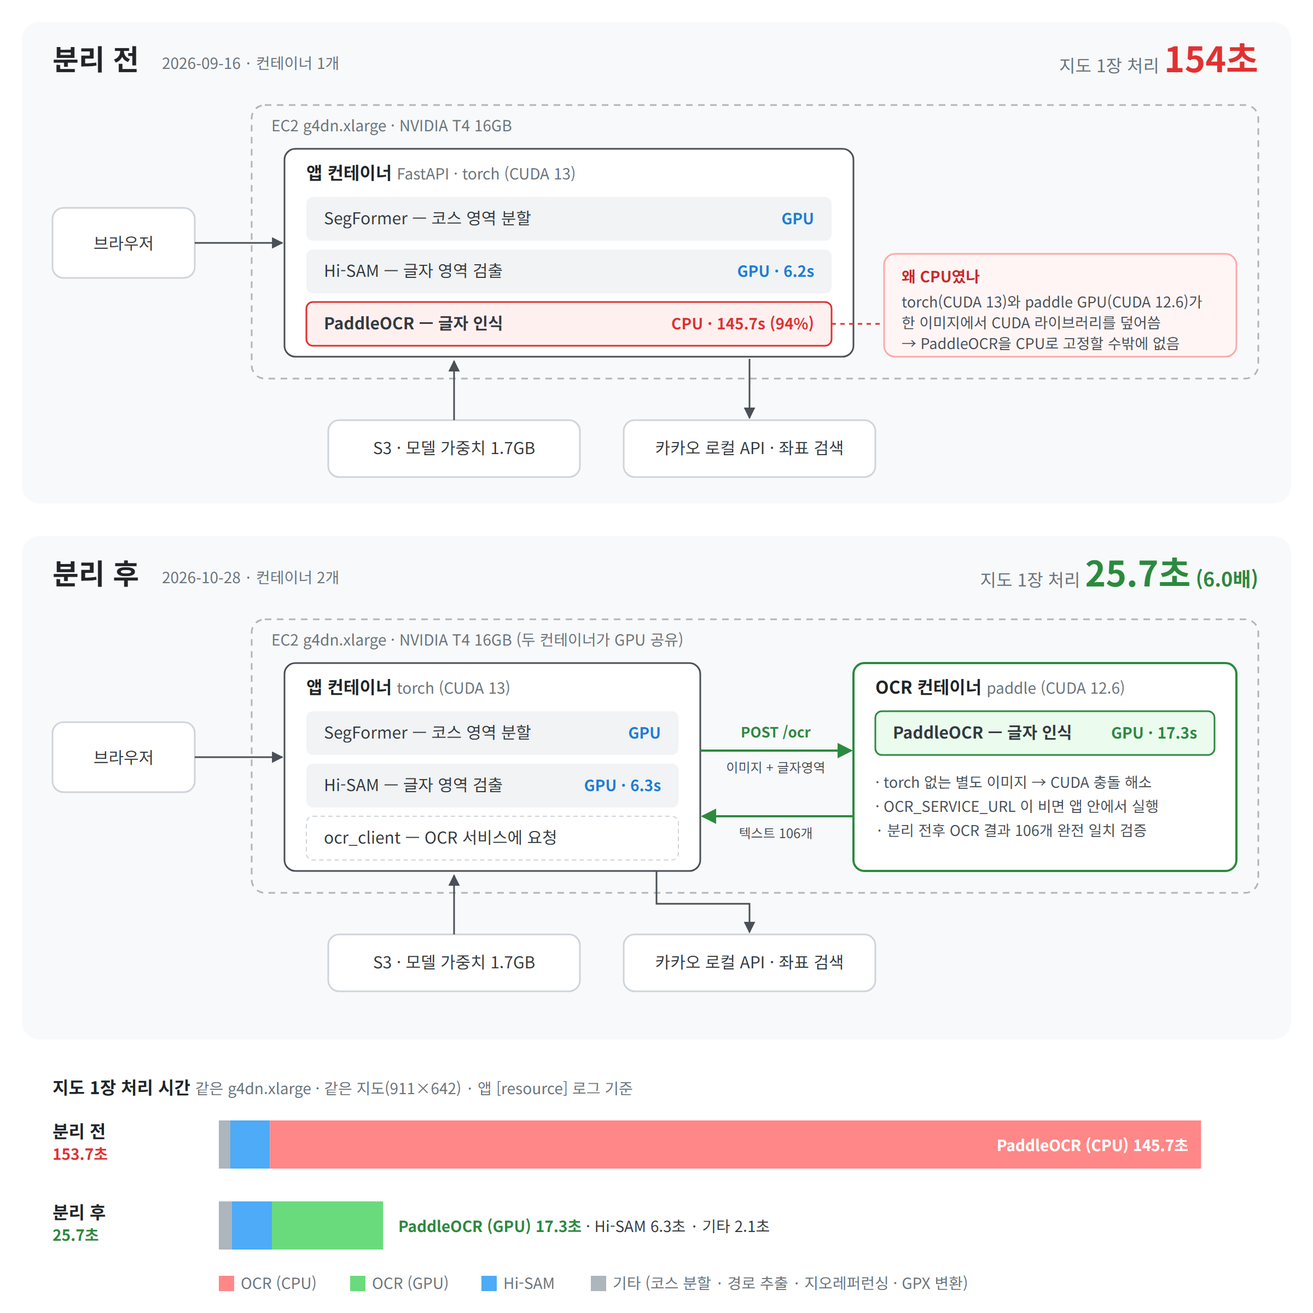
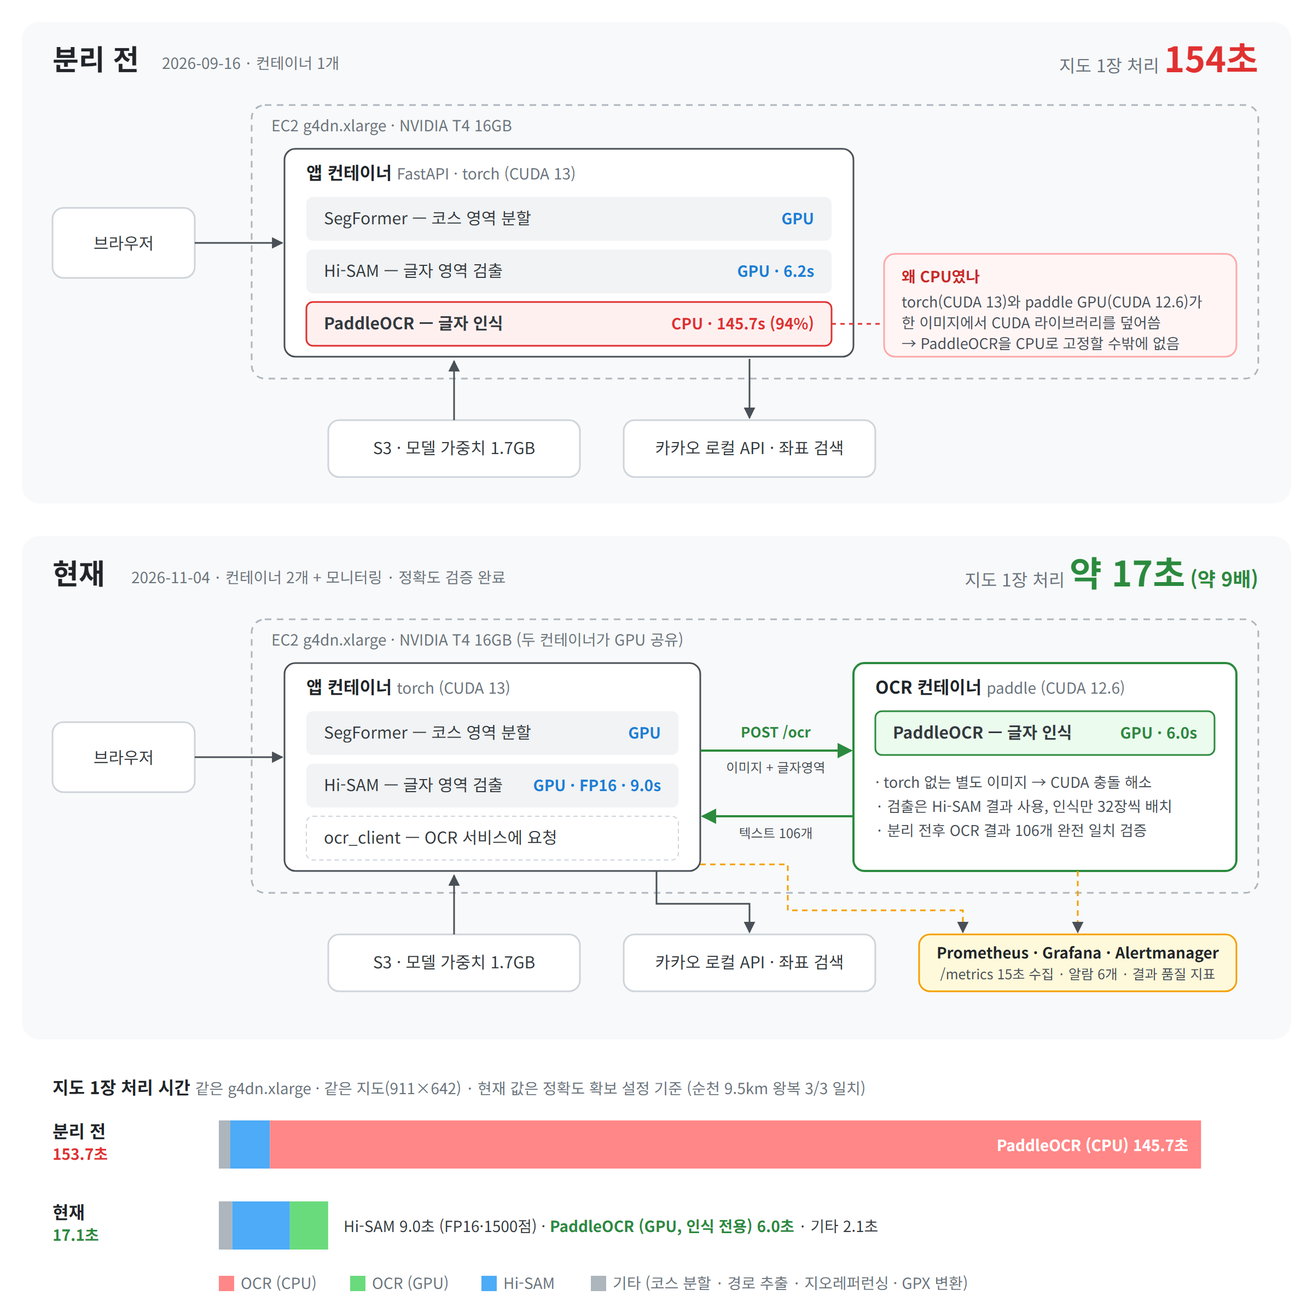
docs: README·아키텍처 그림을 정확도 확보 기준 수치(약 17초)로 갱신, 품질 지표 명칭 정리

diff --git a/bench/alert_test.py b/bench/alert_test.py
@@ -4,7 +4,7 @@
 
 시나리오
   1. OCR 컨테이너 정지 → ServiceDown(job=ocr) firing 까지 시간 → 재시작 → 해제까지 시간
-  2. 품질 기준 밖 결과 주입 → /api/run_georeference 는 200 인데 SilentGeorefFailure 가 firing 되는지
+  2. 품질 기준 밖 결과 주입 → /api/run_georeference 는 200 인데 GeorefQualityLow 가 firing 되는지
      (입력: Hi-SAM 없이 만든 순천 OCR 결과 — decision-log 28번에서 앵커 6개·오차 19px 로 무너졌던 것)
 """
 import json
@@ -57,7 +57,7 @@ compose("start", "ocr")
 t_resolved = wait_for(lambda: alert_state("ServiceDown", job="ocr") == "inactive", 300)
 print(f"    재시작 후 해제까지 {fmt(t_resolved)} (OCR 모델 로드 시간 포함)")
 
-print("[2] 품질 기준 밖 결과 주입 → SilentGeorefFailure")
+print("[2] 품질 기준 밖 결과 주입 → GeorefQualityLow")
 ocr = (ROOT / "bench/e2e/paddle_only/suncheon_ocr.json").read_text(encoding="utf-8")
 with open(ROOT / "bench/e2e/paddle_only/suncheon.png", "rb") as f:
     r = requests.post(f"{APP}/api/run_georeference", files={"file": ("image.png", f, "image/png")},
@@ -65,7 +65,7 @@ with open(ROOT / "bench/e2e/paddle_only/suncheon.png", "rb") as f:
 body = r.json()
 print(f"    API 응답: HTTP {r.status_code}, status={body.get('status')}, 앵커 {body.get('num_anchors')}개, "
       f"평균 오차 {body.get('mean_reprojection_error_px')}px")
-t_silent = wait_for(lambda: alert_state("SilentGeorefFailure") == "firing", 120)
+t_silent = wait_for(lambda: alert_state("GeorefQualityLow") == "firing", 120)
 reasons = sorted({a["labels"].get("reason") for a in requests.get(f"{PROM}/api/v1/alerts", timeout=5).json()["data"]["alerts"]
-                  if a["labels"].get("alertname") == "SilentGeorefFailure"})
-print(f"    SilentGeorefFailure firing 까지 {fmt(t_silent)}, 원인 {reasons}")
+                  if a["labels"].get("alertname") == "GeorefQualityLow"})
+print(f"    GeorefQualityLow firing 까지 {fmt(t_silent)}, 원인 {reasons}")

diff --git a/monitoring/grafana/build_dashboard.py b/monitoring/grafana/build_dashboard.py
@@ -44,7 +44,7 @@ panels = [
           [target('up{job="app"}', "앱"), target('up{job="ocr"}', "OCR")],
           desc="Prometheus 가 /metrics 를 읽지 못하면 0 (다운)",
           thresholds=[{"color": BAD, "value": None}, {"color": GOOD, "value": 1}]),
-    panel(2, "조용한 실패 (성공 응답이지만 품질 기준 밖)", "stat", 6, 0, 6, 4,
+    panel(2, "품질 기준 미달 결과", "stat", 6, 0, 6, 4,
           [target(f'sum(increase(marathon_georef_suspicious_total{W})) or vector(0)', "건수")],
           desc="앵커 8개 미만, 재투영 오차 기준 초과, GPX 경로 100km 초과 (decision-log 22·25번 사례 기준)",
           thresholds=[{"color": GOOD, "value": None}, {"color": BAD, "value": 1}], decimals=0),
@@ -78,7 +78,7 @@ panels = [
           [target(f'sum(increase(marathon_gpx_route_km_sum{W})) / sum(increase(marathon_gpx_route_km_count{W}))', "경로")],
           unit="lengthkm", desc="풀코스도 약 42km. 100km 를 넘으면 변환식 붕괴 의심",
           thresholds=[{"color": GOOD, "value": None}, {"color": WARN, "value": 60}, {"color": BAD, "value": 100}], decimals=2),
-    panel(10, "조용한 실패 원인별", "timeseries", 18, 12, 6, 5,
+    panel(10, "품질 기준 미달 원인별", "timeseries", 18, 12, 6, 5,
           [target('sum by (reason) (increase(marathon_georef_suspicious_total[15m]))', "{{reason}}")]),
 
     # ── 4행: 자원·용량 ──────────────────────────────────────────────────────────

diff --git a/src/metrics.py b/src/metrics.py
@@ -25,7 +25,7 @@ STAGE_FAILURES = Counter(
     "marathon_stage_failures_total", "단계별 실패 수", ["stage"],
 )
 
-# ── 지리좌표 결과 품질: "응답은 성공인데 결과가 틀린" 조용한 실패를 잡기 위한 지표 ────────
+# ── 지리좌표 결과 품질: 변환 행렬이 기준 미달인 결과를 세는 지표 ───────────────────────
 GEOREF_ANCHORS = Histogram(
     "marathon_georef_anchors", "최종 앵커 수",
     buckets=(4, 6, 8, 10, 15, 20, 30, 50),
@@ -35,14 +35,14 @@ GEOREF_REPROJ_ERROR_PX = Histogram(
     buckets=(1, 2, 3, 5, 7, 10, 20, 50),
 )
 GEOREF_SUSPICIOUS = Counter(
-    "marathon_georef_suspicious_total", "성공으로 응답했지만 품질 기준을 벗어난 결과 수", ["reason"],
+    "marathon_georef_suspicious_total", "품질 기준 미달 결과 수", ["reason"],
 )
 GPX_ROUTE_KM = Histogram(
     "marathon_gpx_route_km", "지리좌표로 변환한 GPX 경로 길이(km)",
     buckets=(1, 3, 5, 10, 21, 42, 60, 100, 1000),
 )
 
-# 조용한 실패 판정 기준 (decision-log 22·25번 사례: 앵커 6개·평균 6.5px 인데 다른 도시, 경로 수천 km)
+# 품질 기준 미달 판정 기준 (decision-log 22·25번 사례: 앵커 6개·평균 6.5px 인데 다른 도시, 경로 수천 km)
 MIN_HEALTHY_ANCHORS = 8
 MAX_HEALTHY_ROUTE_KM = 100
 

diff --git a/app.py b/app.py
@@ -899,7 +899,7 @@ def run_georeference_endpoint(
         errors   = tf.reprojection_errors(anchors_final)
         mean_err = sum(errors) / len(errors)
 
-        # 결과 품질 지표 — 응답은 그대로 두고, 기준을 벗어난 "성공"을 따로 센다 (조용한 실패 감시)
+        # 결과 품질 지표 — 기준 미달 결과를 원인별로 센다 (응답 자체의 실패 처리는 아직 없음)
         M.GEOREF_ANCHORS.observe(len(anchors_final))
         M.GEOREF_REPROJ_ERROR_PX.observe(mean_err)
         if len(anchors_final) < M.MIN_HEALTHY_ANCHORS:

diff --git a/README.md b/README.md
@@ -6,10 +6,11 @@
 | 구분 | 범위 | 기간 |
 |------|------|------|
 | 캡스톤 팀 프로젝트 | 경로 추출 모델, 후처리·그래프 단순화, 지리좌표 변환 파이프라인, 웹 UI | ~ 2026-05 (이 레포의 커밋 기록 기준 2026-05-12 ~ 05-20) |
-| **개인 작업 (이 레포)** | 컨테이너화, 성능 병목 진단, OCR 서비스 분리·GPU 전환, Terraform 인프라 | 2026-09 ~ |
+| **개인 작업 (이 레포)** | 컨테이너화, 성능 병목 진단, OCR 서비스 분리·GPU 전환, 정확도 검증, Terraform 인프라, 모니터링·알람 | 2026-09 ~ |
 
 - 원본 팀 레포: [jwonni/Capston-A-man-of-Gyeongsang-do](https://github.com/jwonni/Capston-A-man-of-Gyeongsang-do) — 팀 커밋 기록은 이 레포에 그대로 보존되어 있습니다
-- 팀 프로젝트에서 본인 담당: _(작성 예정)_
+- 배경: 러닝 의류·커뮤니티 기업과 함께한 AX 산학 캡스톤. 담당자가 매번 20~30분씩 손으로 만들던 마라톤 코스 GPX를 지도 이미지로 자동 생성하는 것이 목표였습니다
+- 팀 프로젝트에서 본인 담당: OCR 모델 선정, 인식 텍스트 정제, 카카오 API로 지명 좌표 확보, 신뢰할 수 있는 좌표만 골라 픽셀↔GPS 변환 행렬 계산 (지리좌표 변환 파이프라인)
 
 ## 핵심 성과
 
@@ -17,13 +18,18 @@
 
 | 지표 | 개선 전 | 개선 후 | 무엇을 바꿨나 |
 |------|---------|---------|---------------|
-| 지도 1장 전체 처리 시간 (EC2 g4dn.xlarge) | 약 154초 | **약 25.7초 (6.0배)** | PaddleOCR GPU 전환 + OCR 서비스 분리 |
-| └ OCR 구간 | 약 145초 (CPU, 전체의 94%) | 17.3초 (GPU) | 〃 |
+| 지도 1장 전체 처리 시간 (EC2 g4dn.xlarge, T4) | 약 154초 | **약 15~17초 (약 9배)** | OCR 서비스 분리·GPU 전환, Hi-SAM FP16·점 수 조정, OCR 인식 전용 배치 |
+| 결과 정확도 (송도 지도, 정답 위치와의 거리) | 출발 4.8km · 도착 5.6km | **316m · 210m** | 앵커 영역 필터 수정, 기록 없이 낮춰져 있던 Hi-SAM 설정 복원 |
+| Hi-SAM 글자 검출 실패율 | 57% (7회 중 4회) | **이후 측정에서 실패 없음** | 〃 |
+| GPU 메모리 최대 (앱) | 9.5GB | **5.6GB** | Hi-SAM FP16 |
+| 처리 중 `/metrics`·`/api/health` 응답 | 10초 넘게 응답 없음 | **76/76 성공, 최대 0.1초** | 모니터링으로 이벤트 루프 블로킹 발견 → 스레드풀 실행 |
 | 의존성 수정 후 이미지 재빌드 | 1,430~2,500초 | **248초** | torch 레이어 분리 + pip 캐시 마운트 |
 | Docker 빌드 컨텍스트 | 1.8GB | **1.9MB** | 모델 가중치를 이미지에서 분리 |
 | GPU 실험 환경 구성 | 콘솔 수작업 (AMI·디스크·IAM 실수 반복) | **`terraform apply` 1회** | Terraform 코드화 + S3 원격 state·락 |
 
 - 같은 인스턴스 타입·같은 벤치마크 지도·같은 측정 로그(`[resource]`)로 비교했습니다
+- 처리 시간은 **정확도가 확보된 설정 기준**입니다. 중간에 기록했던 25.7초는 Hi-SAM 설정이 낮춰져 결과가 수 km씩 틀리던 상태의 수치라 대체했습니다 (decision-log 18·24~27번)
+- 정확도는 응답의 "성공" 여부가 아니라 **정답 위치와의 거리(m)**로 평가했습니다 (`bench/e2e_eval.py`)
 - OCR 분리 전후 결과가 같은지 Hi-SAM 출력을 고정해 검증했습니다 (텍스트 106개, 글자·좌표·신뢰도 완전 일치)
 - 모든 결정의 근거와 측정 조건은 [docs/decision-log.md](docs/decision-log.md)에 있습니다
 
@@ -41,19 +47,24 @@
 7. **OCR 서비스 분리** — PaddleOCR을 별도 컨테이너(`ocr_service.py`)로 분리해 GPU로 실행. `OCR_SERVICE_URL`이 없으면 기존처럼 앱 안에서 실행
 8. **요청별 자원 측정** — 모든 API 요청의 처리 시간·RAM·VRAM·CPU를 `[resource]` 로그로 기록
 9. **인프라 코드화** — GPU EC2·보안 그룹·IAM 역할을 Terraform으로 생성/삭제, state는 S3에 보관
+10. **모니터링·알람** — Prometheus 지표(처리 시간, 실패, GPU 메모리, 결과 품질), Grafana 대시보드, Alertmanager 알람
 
 ## 아키텍처
 
 ```
 브라우저 ──▶ 앱 컨테이너 (FastAPI, :8010)                     OCR 컨테이너 (FastAPI, :8020)
             torch (CUDA 13)                                  paddle (CUDA 12.6)
-            ├─ SegFormer-UNet  ── GPU                         └─ PaddleOCR ── GPU
-            ├─ Hi-SAM          ── GPU
+            ├─ SegFormer-UNet  ── GPU                         └─ PaddleOCR 인식 ── GPU
+            ├─ Hi-SAM          ── GPU (FP16)
             └─ ocr_client ──── POST /ocr (이미지 + 글자 영역) ──▶
                           ◀──── 인식 텍스트 + 좌표 ─────────────
                 │
                 ├─▶ 카카오 Local API (좌표 검색)
                 └─▶ S3 (모델 가중치 1.7GB, 실행 시 다운로드)
+
+   앱 /metrics ─┐
+  OCR /metrics ─┴──▶ Prometheus (15초 수집, 알람 규칙 6개) ──▶ Alertmanager
+                              └──▶ Grafana (대시보드 12패널)
 ```
 
 **왜 컨테이너를 나눴나:** torch(CUDA 13)와 paddlepaddle-gpu(CUDA 12.6)를 한 이미지에 설치하면 각자의 CUDA 라이브러리가 서로를 덮어써 torch가 깨집니다. 그래서 PaddleOCR은 CPU로 고정할 수밖에 없었고, 이것이 전체 처리 시간의 94%를 차지하는 병목이었습니다. OCR을 torch 없는 별도 이미지로 분리해 GPU를 쓸 수 있게 했습니다. (decision-log 15~18번)
@@ -69,17 +80,25 @@
 ├── Dockerfile                          # [개인] 앱 이미지 (python:3.12-slim + torch)
 ├── Dockerfile.ocr                      # [개인] OCR 이미지 (paddle GPU/CPU 빌드 인자)
 ├── docker-compose.yml                  # [개인] 로컬 검증용: 앱 + OCR 두 컨테이너 (CPU)
+├── docker-compose.dev.yml              # [개인] 현재 코드를 컨테이너에 연결 (재빌드 없이 재시작만으로 반영)
+├── docker-compose.monitoring.yml       # [개인] Prometheus + Alertmanager + Grafana
 ├── .dockerignore                       # [개인] 가중치·.git 제외 (빌드 컨텍스트 1.8GB → 1.9MB)
 ├── .env                                # 환경변수 (KAKAO_API_KEY 등, git 제외)
 ├── .env.example                        # 환경변수 예시
 ├── Hi-SAM/                             # Hi-SAM 텍스트 감지 (ymy-k/Hi-SAM, Apache-2.0, 일부 수정 포함)
 │   └── pretrained_checkpoint/          # 체크포인트 (별도 다운로드, git 제외)
-├── bench/                              # [개인] 성능·동일성 측정 도구
+├── bench/                              # [개인] 성능·정확도·장애 측정 도구
+│   ├── e2e_eval.py                     # 지도 1장을 끝까지 처리하고 정답 위치와의 거리(m) 측정
+│   ├── georef_offline.py               # 저장된 OCR 결과로 지리좌표 단계만 재실행 (같은 입력 비교)
+│   ├── georef_diagnose.py              # 지리좌표 단계별 추적 (어디서 다른 도시가 섞이나)
 │   ├── ocr_profile.py                  # OCR 구간별 프로파일
-│   ├── paddle_bench_sizes.py           # 크롭 크기별 CPU/GPU 비교
-│   ├── run_gpu_ocr_bench.sh            # EC2 GPU OCR 벤치마크
+│   ├── ocr_batch_test.py               # 검출+인식 / 인식 전용 배치 비교
+│   ├── paddle_only_ocr.py              # Hi-SAM 없이 PaddleOCR만 쓰는 실험
 │   ├── ocr_equivalence.py              # OCR 분리 전후 결과 비교
-│   └── run_ocr_equivalence.ps1         # 동일성 검증 실행 스크립트
+│   ├── responsiveness_test.py          # 처리 중에도 /metrics·health 가 응답하는지
+│   ├── alert_test.py                   # 장애를 일으켜 알람이 울리는 시간 측정
+│   └── failure/run_failure_test.py     # 컨테이너 장애 시나리오
+├── monitoring/                         # [개인] Prometheus 설정·알람 규칙, Alertmanager, Grafana 대시보드(코드로 생성)
 ├── infra/                              # [개인] Terraform
 │   ├── bootstrap/                      # state 저장용 S3 버킷
 │   ├── envs/dev/gpu-ec2/               # GPU EC2 + 보안 그룹 + IAM 역할
@@ -94,7 +113,8 @@
 │   ├── ec2-user-data.sh                # [개인] EC2 시작 시 자동 실행 스크립트
 │   └── visualize_component_filter.py   # 연결 성분 필터 디버그 시각화
 ├── src/
-│   ├── config.py                       # 전역 설정 (환경변수로 OCR 장치·서비스 주소 지정)
+│   ├── config.py                       # 전역 설정 (환경변수로 OCR 장치·서비스 주소, Hi-SAM FP16·점 수, OCR 모드 지정)
+│   ├── metrics.py                      # [개인] Prometheus 지표 정의 (처리 시간, 실패, 결과 품질)
 │   ├── georeferencing/
 │   │   ├── anchor_builder.py           # 카카오 API 앵커 구축 + 밀집 영역 필터
 │   │   ├── homography.py               # 픽셀↔GPS 호모그래피 계산
@@ -194,6 +214,18 @@ docker compose up
 
 브라우저에서 `http://localhost:8010` 접속.
 
+모니터링까지 함께 띄우려면 (코드 수정은 재빌드 없이 `restart app` 으로 반영):
+
+```bash
+docker compose -f docker-compose.yml -f docker-compose.dev.yml -f docker-compose.monitoring.yml up -d
+```
+
+| 화면 | 주소 |
+|------|------|
+| Grafana 대시보드 | `http://localhost:3000` (로그인 없이 보기 전용) |
+| Prometheus (알람 규칙·상태) | `http://localhost:9090/alerts` |
+| Alertmanager (발생한 알람) | `http://localhost:9093` |
+
 ### C. AWS GPU 실행 (Terraform)
 
 사전 조건: AWS CLI 자격증명, Terraform 1.10 이상, EC2 키 페어. 버킷·계정 ID 등은 본인 환경에 맞게 바꿔야 합니다.
@@ -291,10 +323,10 @@ terraform destroy    # "Destroy complete!" 확인. 디스크도 함께 삭제됨
 
 ```
 이미지
-  ↓ Hi-SAM (vit_l, 입력 512)  — text_detector.py          [앱 컨테이너, GPU]
+  ↓ Hi-SAM (vit_l, 입력 1024, 점 1500개, GPU에서 FP16)  — text_detector.py   [앱 컨테이너]
 텍스트 영역 polygon 목록
   ↓ POST /ocr  — ocr_client.py → ocr_service.py           [OCR 컨테이너, GPU]
-  ↓ PaddleOCR (korean)  — ocr.py
+  ↓ PaddleOCR 인식 모델만 32장씩 배치 (검출은 Hi-SAM 결과 사용)  — ocr.py
     (y, x) 정렬 → 동일 X 세로 병합
 인식된 텍스트 + 픽셀 좌표  [{text, x, y, confidence}, ...]
   ↓ 카카오 Local API (병렬 검색 + 밀집 영역 필터)  — anchor_builder.py
@@ -318,14 +350,41 @@ terraform destroy    # "Destroy complete!" 확인. 디스크도 함께 삭제됨
 | 원격 state | `backend.tf`, `bootstrap/` | S3 버킷(버전 관리·암호화·공개 차단·삭제 방지) + `use_lockfile` 네이티브 락 |
 | 실행 권한 | `iam/terraform-s3-policy.json` | 서울 리전만, `marathon-*` 역할만, 허용 인스턴스 타입 외 거부. 초안의 권한 상승 경로를 리뷰에서 발견해 차단 (decision-log 19번) |
 
+## 모니터링 (Prometheus · Grafana · Alertmanager, 개인 작업)
+
+앱과 OCR 서비스가 `/metrics`로 숫자를 공개하고, Prometheus가 15초마다 읽어 갑니다(pull 방식). 기록은 메모리에서만 일어나 요청 처리에 영향을 주지 않습니다.
+
+| 지표 | 내용 |
+|------|------|
+| `marathon_stage_seconds` | Hi-SAM / OCR 단계별 처리 시간 |
+| `marathon_stage_failures_total` | 어느 단계에서 실패했는지 |
+| `marathon_request_vram_peak_bytes` | API별 GPU 메모리 최대 사용량 |
+| `marathon_ocr_service_queue_wait_seconds` | OCR 요청 대기 시간 (커지면 OCR 컨테이너를 늘릴 신호) |
+| `marathon_georef_anchors`, `…_reprojection_error_px`, `marathon_gpx_route_km` | 결과 품질 (앵커 수, 재투영 오차, GPX 경로 길이) |
+| `marathon_georef_suspicious_total` | 품질 기준 미달 결과 수 (앵커 8개 미만, 오차 7px 초과, 경로 100km 초과) |
+
+| 알람 | 조건 | 검증 결과 (`bench/alert_test.py`) |
+|------|------|------------------------------------|
+| ServiceDown | 앱·OCR이 1분 넘게 응답 없음 | OCR 정지 → 81초에 발생, 재시작 → 43초에 해제 |
+| GeorefQualityLow | 최근 10분 사이 품질 기준 미달 결과 발생 | 품질 기준 미달 결과 주입 → 22초에 발생 |
+| StageFailures / OcrServiceFailures | 단계별·OCR 실패 발생 | |
+| GpuMemoryHigh | GPU 메모리 14GB 초과 (T4 16GB) | |
+| OcrQueueBacklog | OCR 대기 p95 10초 초과 | |
+
+모니터링을 붙이면서 찾은 버그 두 가지 (decision-log 29번):
+- **이벤트 루프 블로킹**: `async def` 엔드포인트 안에서 수 분짜리 추론을 직접 실행해, 처리 중에는 `/metrics`와 다른 요청까지 멈췄습니다. 무거운 엔드포인트를 스레드풀에서 실행하도록 바꿨습니다.
+- **첫 번째 실패에 알람이 안 울림**: 라벨별 카운터가 처음 발생 순간 1로 생겨나 Prometheus가 증가를 보지 못했습니다. 가능한 라벨을 시작 시 0으로 만들어 두었습니다.
+
 ## 측정 도구 (`bench/`, 개인 작업)
 
 | 도구 | 용도 |
 |------|------|
-| `[resource]` 로그 (`app.py`) | 요청별 처리 시간·RAM·VRAM·CPU. 모든 성능 수치의 출처 |
-| `ocr_profile.py` | OCR 구간(검출·전처리·기본 호출·재시도)별 시간 분해 |
-| `paddle_bench_sizes.py`, `run_gpu_ocr_bench.sh` | 같은 크롭으로 PaddleOCR CPU/GPU 비교 |
+| `[resource]` 로그 (`app.py`) | 요청별 처리 시간·RAM·VRAM·CPU |
+| `e2e_eval.py` | 브라우저와 같은 순서로 지도 1장을 처리하고 **정답 위치와의 거리(m)** 측정 |
+| `georef_offline.py`, `georef_diagnose.py` | 같은 OCR 결과로 지리좌표 단계만 재실행, 단계별로 어디서 결과가 틀어지는지 추적 |
+| `ocr_profile.py`, `ocr_batch_test.py` | OCR 구간별 시간 분해, 검출+인식 / 인식 전용 비교 |
 | `ocr_equivalence.py`, `run_ocr_equivalence.ps1` | Hi-SAM 결과를 고정한 뒤 OCR 분리 전후 출력 비교 |
+| `responsiveness_test.py`, `alert_test.py` | 처리 중 응답성, 장애 주입 시 알람 발생·해제 시간 |
 
 벤치마크 지도 이미지는 대회 측 저작물이라 레포에 포함하지 않았습니다.
 
@@ -340,17 +399,22 @@ python scripts/visualize_component_filter.py --input-mask sample_route.png --min
 ## 로드맵
 
 - [x] 컨테이너화 (레이어 분리, 가중치 분리)
-- [x] 성능 병목 진단 → OCR 서비스 분리 + GPU 전환 (154s → 25.7s)
+- [x] 성능 병목 진단 → OCR 서비스 분리 + GPU 전환
+- [x] 정답 위치 기준 정확도 검증 → 앵커 영역 필터·Hi-SAM 설정 수정
+- [x] Hi-SAM FP16·점 수 조정, OCR 인식 전용 배치 (정확도 유지, 154s → 약 17s)
 - [x] Terraform으로 GPU EC2 코드화 + S3 원격 state·락
+- [x] Prometheus/Grafana/Alertmanager 모니터링, 장애 주입으로 알람 검증
+- [ ] 변환 행렬 검증 강화 (오차 기준·앵커 수·경로 길이를 못 맞추면 실패로 응답)
+- [ ] 알람 전달 채널 (Slack·Discord), GPU 지표 (DCGM exporter)
+- [ ] 이미지를 ECR에 두고 user_data로 자동 기동 (준비 시간 약 11분 → 수 분)
 - [ ] 도메인 + HTTPS 연결
-- [ ] 큐 기반 비동기 처리 + GPU Scale-to-Zero
+- [ ] 큐 기반 비동기 처리 + GPU Scale-to-Zero, k6 부하 테스트
 - [ ] Kubernetes (로컬 k3s → EKS)
-- [ ] Prometheus/Grafana 모니터링, k6 부하 테스트
-- [ ] Hi-SAM 무작위성(같은 이미지의 성공/실패 편차) 측정 및 대응
 
 ## 참고 사항
 
-- GPU가 없으면 CPU로 자동 전환됨 (Hi-SAM 추론은 시간이 오래 걸릴 수 있음)
+- GPU가 없으면 CPU로 자동 전환됨 (Hi-SAM 추론은 CPU에서 수 분이 걸리고, FP16은 GPU에서만 적용)
+- Hi-SAM FP16·점 수, OCR 인식 전용 모드는 환경변수 `HISAM_FP16`, `HISAM_TOTAL_POINTS`, `OCR_REC_ONLY`로 바꿀 수 있음
 - 앱 이미지 안에서는 PaddleOCR을 CPU로 고정 (torch와 CUDA 라이브러리 충돌). GPU OCR은 OCR 컨테이너(`PADDLE_DEVICE=gpu`)에서만 사용
 - Windows 환경에서는 PaddlePaddle `3.0 이상 3.3 미만` 버전 사용 권장 (oneDNN 버그 회피)
 - Hi-SAM은 [ymy-k/Hi-SAM](https://github.com/ymy-k/Hi-SAM) (Apache-2.0) 코드를 포함하며, 수정한 파일에는 상단에 수정 표시가 있습니다
